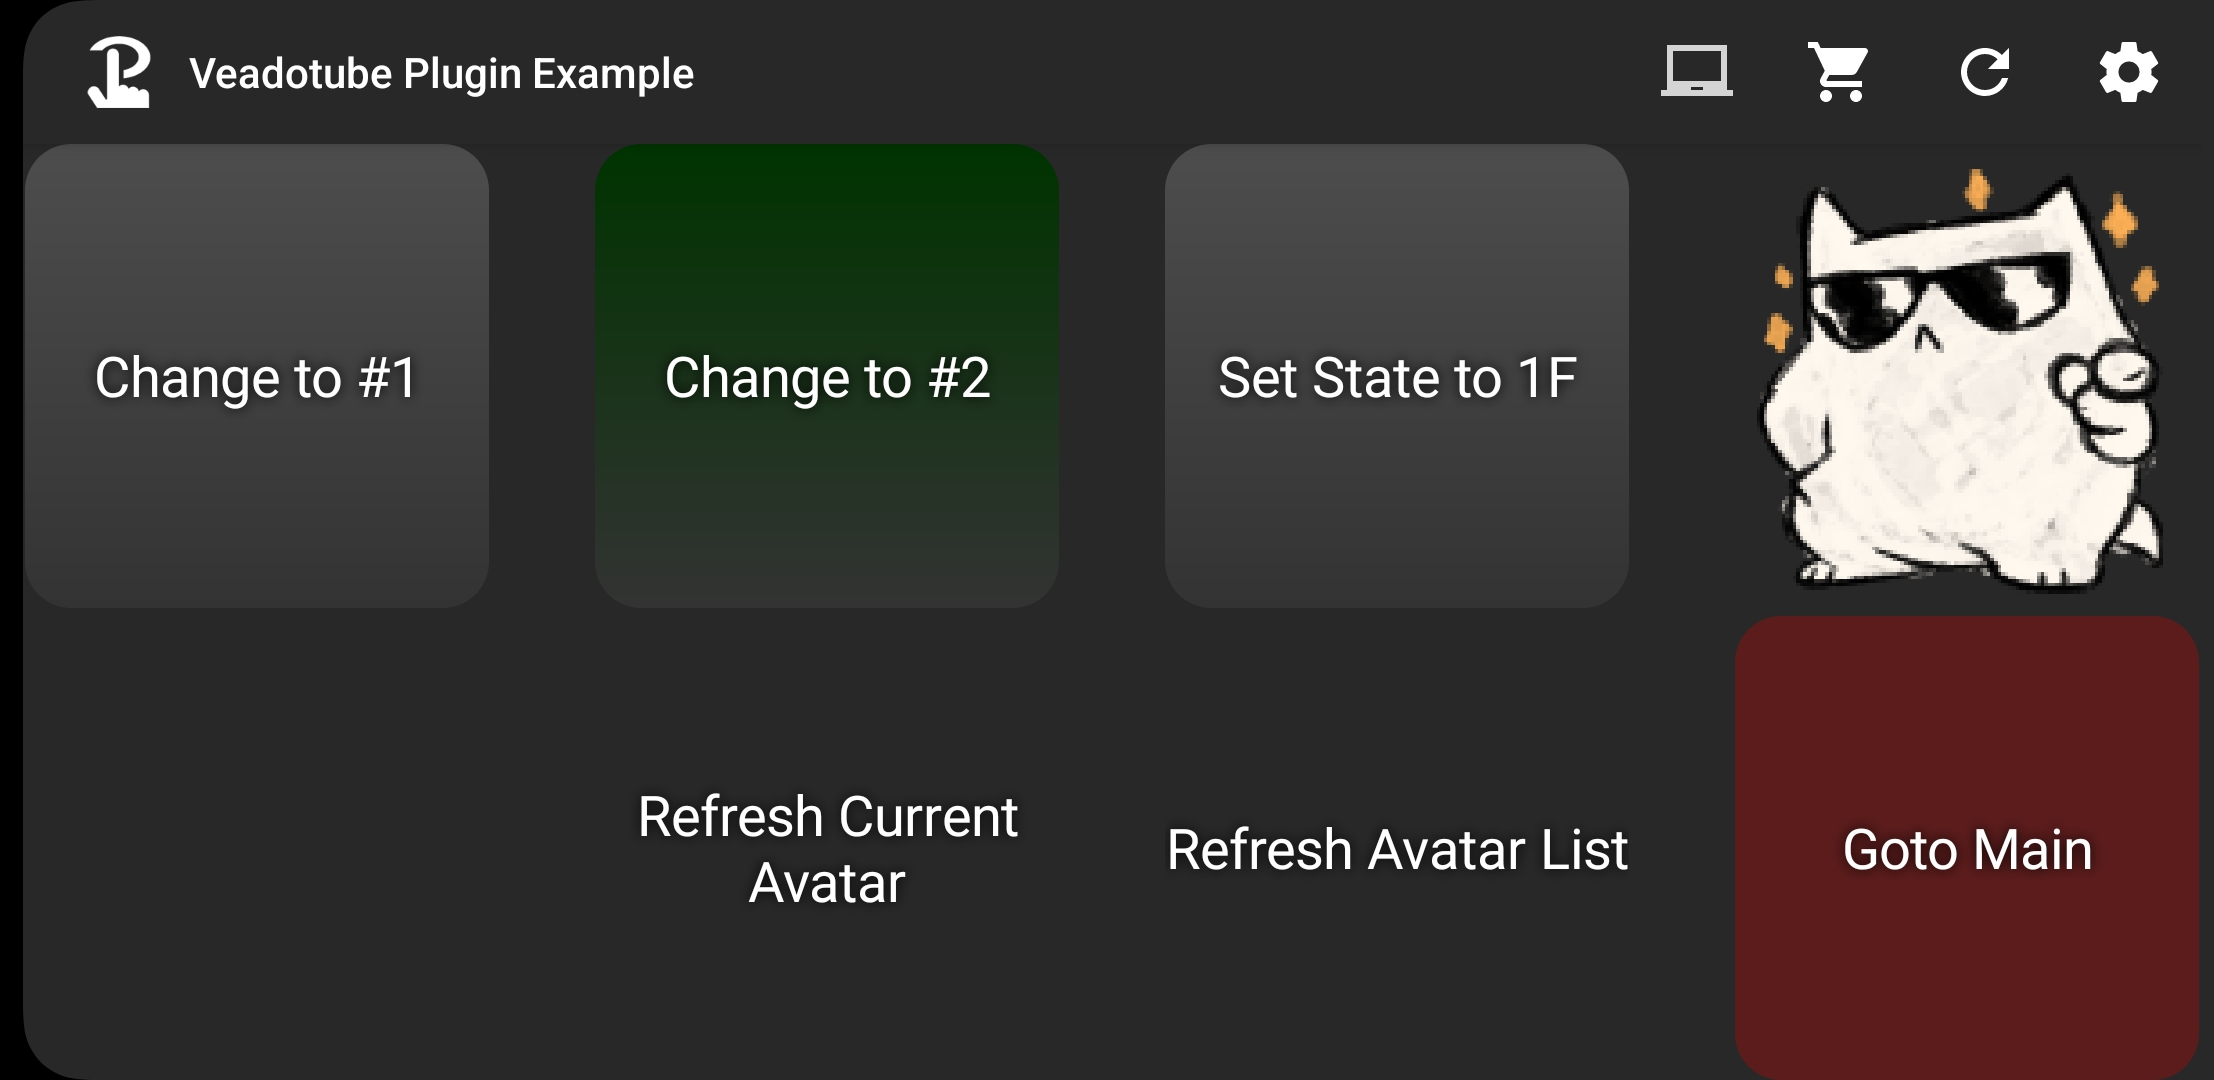
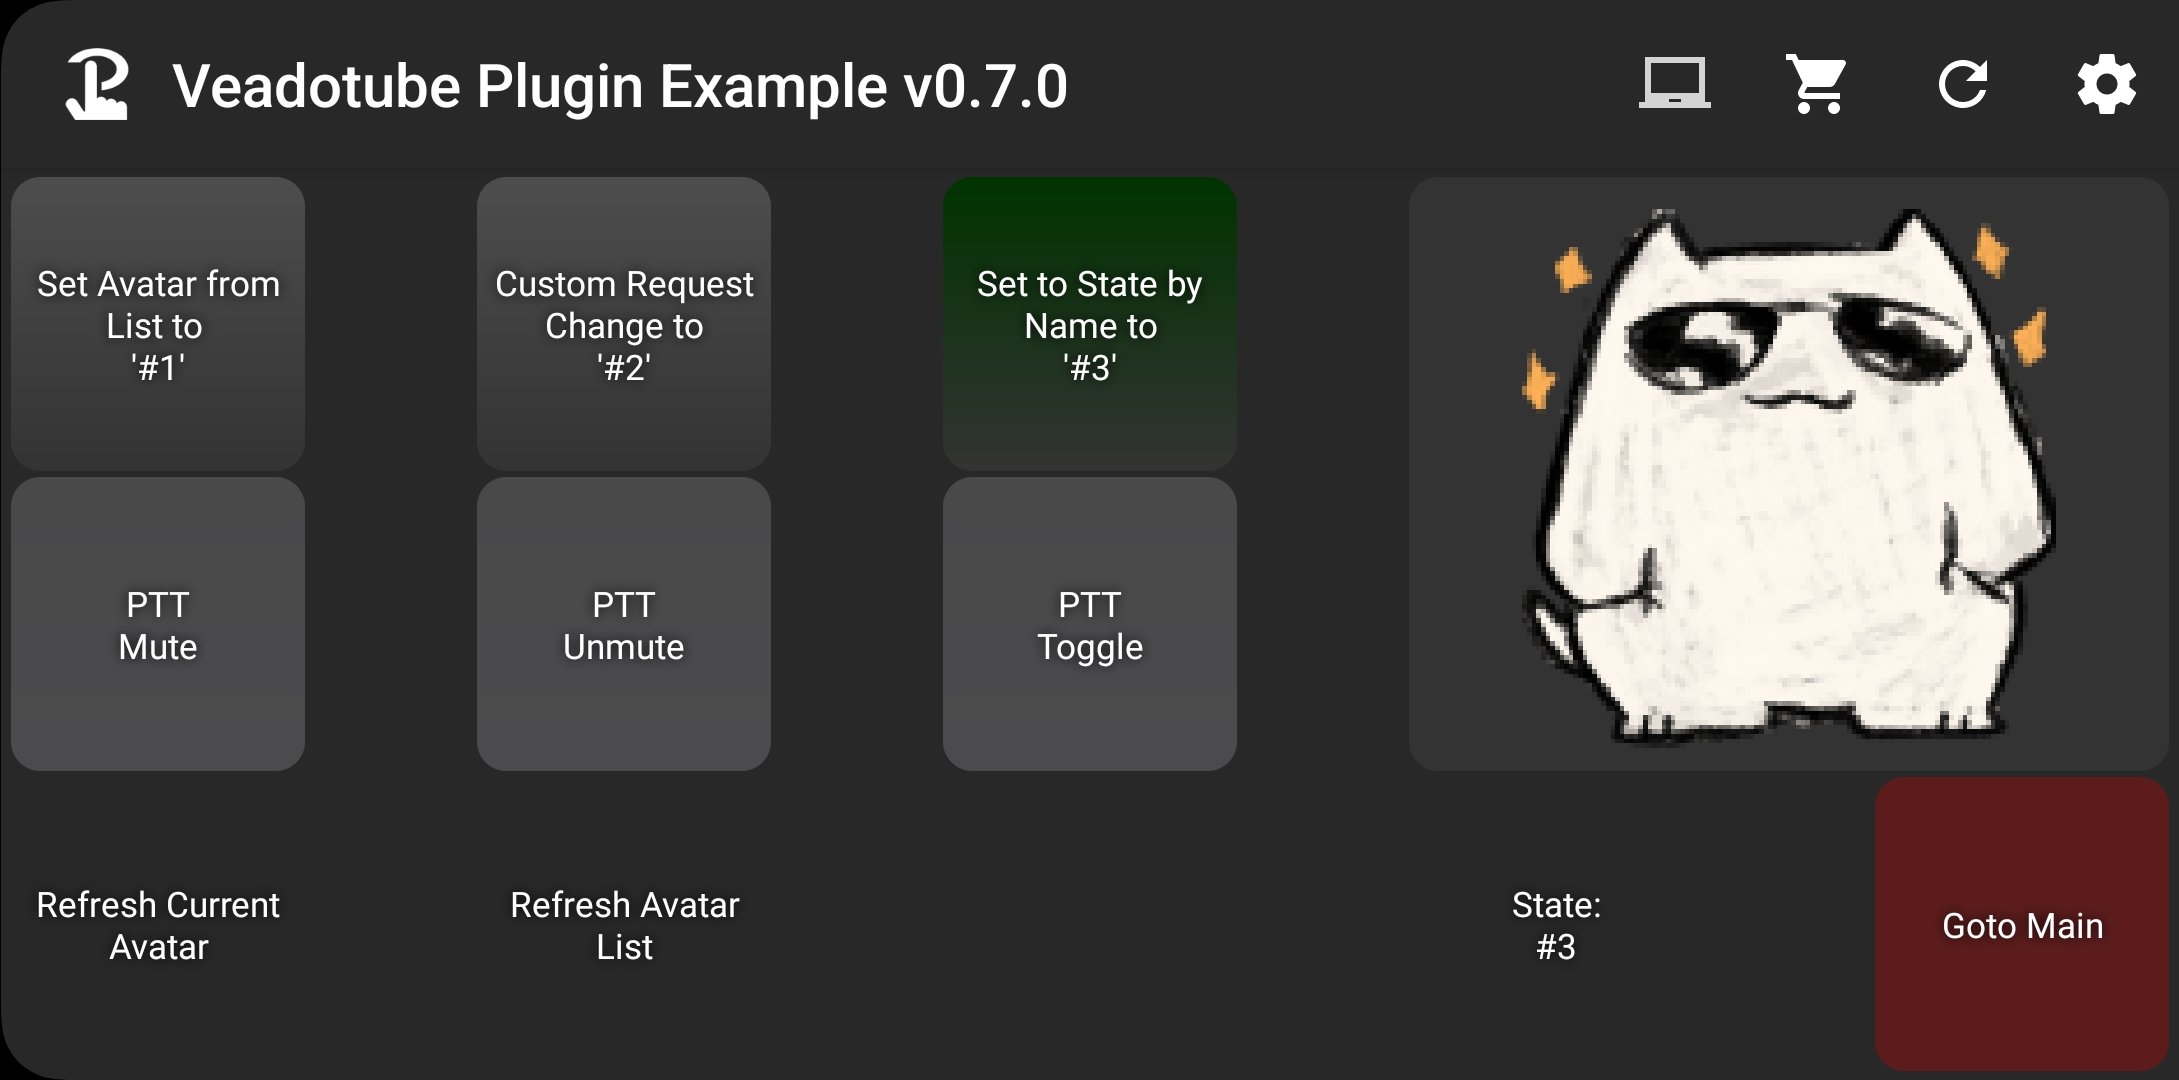
Updated Readme and Added Touch Portal Page Example for v0.7.0
Updated License info

diff --git a/README.md b/README.md
@@ -16,10 +16,10 @@ _This Plugin is free, but you need to buy the Touch Portal Pro upgrade install a
 
 ## Releases
 
-The latest version is 0.6.0 and currently a beta release.
+The latest version is 0.7.0 and currently a beta release.
 
 - Stable enough for general use but hasn't been fully tested.
-- Only Tested with **Veadotube Mini v2.0**
+- Tested with **veadotube mini v2.0a** and **veadotube mini v2.1**
 
 
 ## Getting Help
@@ -31,6 +31,9 @@ The easiest way to get help is to ask in the [Touch Portal Discord](https://disc
 - Touch Portal: https://www.touch-portal.com
 - BleatKan Library: https://github.com/DissonantAU/bleatkan
 - Touch Portal Plugin SDK: https://github.com/ChristopheCVB/TouchPortalPluginSDK
+
+## License
+- This Plugin Licensed under GPL v3, and is Free to use in accordance with any Licenses and Agreements 
 
 
 ---
@@ -45,6 +48,7 @@ The easiest way to get help is to ask in the [Touch Portal Discord](https://disc
   Select **Yes** or **Trust Always** to let it run
   **Yes** will make Touch Portal ask you again each time it starts  
   ![Screenshot of Touch Portal Plugin Warning](readmeAndLicences/readmeImg/plugin-import-2.png)
+
 
 
 ### Plugin Settings
@@ -66,89 +70,64 @@ Only one copy of Veadotube Mini is running, it has the default title.
 Enable has been entered for Request Thumbnail
 
 
+
 ### Setting up Buttons in Touch Portal
 **You can find an example Touch Portal Page you can download and import here**  
 
 The example page and the examples below use one of the default avatars, O Gato by BELLA!  
 You can find it in Veadotube Mini by clicking _Avatar Settings > Load Default Avatar..._  
-![Screenshot of the Example Touch Portal Page on Android](readmeAndLicences/readmeImg/example_button_adv_3.png)
+![Screenshot of the Example Touch Portal Page on Android](readmeAndLicences/readmeImg/example_button_adv_2.png)
+
+
 
 #### Basic Button Setup
 The Plugin Actions can be found under **Veadotube - Primary Instance** 
 
 **Basic Avatar Change Trigger**
-1. Make sure you have the Avatar you want to use open, and add **Set Avatar State** to you button
+1. Make sure you have the Avatar you want to use open, and add **Set Avatar State from List** to your button
 
-2. Click the dropdown arrow to show all the current Avatars  
-![Screenshot of the Touch Portal showing 'Set Avatar State to' and a dropdown list with Avatar States and IDs](readmeAndLicences/readmeImg/example_button_1.png)
+2. Click the dropdown arrow to show all the current Avatars
+![Screenshot of the Touch Portal showing 'Set Avatar State to' and a dropdown list with Avatar States](readmeAndLicences/readmeImg/example_button_1.png)
+![example_button_adv_5.png](readmeAndLicences%2Fexample_button_adv_5.png)
+You will see the name, or number assigned by veadotube if you didn't set one.  
+Changing the name of a state in veadotube will break your Touch Portal buttons - you will need to come back and update the buttons of any you change.  
+- Select the avatar you want this button to set
+- Alternatively you can use **Set Avatar State by Name** if you'd prefer to use a text box or value to set the name  
+You can copy & paste from the state name filled in veadotube into the text box with this option
+![Screenshot of the Touch Portal showing 'Set Avatar to State with Name' and a text box with the name #3](readmeAndLicences/readmeImg/example_button_2.png)
 
-You will see the name (or number assigned by Veadotube if you didn't set one) and the Avatar ID in brackets.  
-This ID doesn't change and the Plugin uses it, so you can safely change avatar state names in Veadotube without your Touch Portal buttons breaking.  
-3. Select the avatar you want this button to set
 4. Set the Button Text, Background, etc.  
-![Closer Screenshot of the Touch Portal showing a button labeled "Change to #1" 'Set Avatar State to' with State #1 ID '3' selected](readmeAndLicences/readmeImg/example_button_2.png)
+![Closer Screenshot of the Touch Portal showing a button labeled "Change to #1" 'Set Avatar State to' with State #1 selected](readmeAndLicences/readmeImg/example_button_3.png)
 
-5. Repeat with other buttons  
-![Closer Screenshot of the Touch Portal showing a button labeled "Change to #2" 'Set Avatar State to' with State #2 ID 'D' selected](readmeAndLicences/readmeImg/example_button_3.png)
+5. Repeat with other buttons
 
-![Screenshot of Veadotube with State #1 Selected, and State #2 highlighted so the State Name is visible](readmeAndLicences/readmeImg/example_button_4.png)
-_2nd Avatar - no name, given Default of #2. The ID is 'D'_
+![Screenshot of Veadotube with State #2 selected and open so the State Name is visible](readmeAndLicences/readmeImg/example_button_4.png)
+_Opening the avatar state in veadotube shows the name box - you can copy this into Touch Portal text boxes_
 
 You can now press the buttons and change the active avatar!  
+Note: Here **When Plug-in state changes** has been used to make the buttons reactive - If you want buttons to change with the state, even when changed directly in veadotube, see under _Advanced Buttons_ below
 
-![Screenshot of the Example Touch Portal Page on Android with 3 Example Change Buttons. State #1 showing as an Icon](readmeAndLicences/readmeImg/example_button_5.png)
+![Screenshot of the Example Touch Portal Page on Android with 3 Example Change Buttons. State #3 showing as an Icon](readmeAndLicences/readmeImg/example_button_adv_4.png)
+_After Pressing Button #3_
+
+![Screenshot of the Example Touch Portal Page on Android with 3 Example Change Buttons. Now State #1 showing as an Icon](readmeAndLicences/readmeImg/example_button_adv_2.png)
 _After Pressing Button #1_
 
-![Screenshot of the Example Touch Portal Page on Android with 3 Example Change Buttons. Now State #2 showing as an Icon](readmeAndLicences/readmeImg/example_button_6.png)
-_After Pressing Button #2_
 
 
-##### Set Avatar State by ID (Text)
-You can also use a text field or Touch Portal Value to set the Avatar
-![Screenshot of the Touch Portal showing 'Set Avatar to State with ID' with 1F entered in the text box, and 'Set Avatar State to' with the dropdown list with Avatar States and IDs open](readmeAndLicences/readmeImg/example_button_7.png)
-_In this example you can see the state by Text set to 1F (#4). The Set State is shown here for comparison. It's also an easy way to find a State's ID_
-
-
-
-
-#### Refresh Buttons
-You can create buttons to Force a refresh as well
-![Screenshot of the Touch Portal showing 'Refresh Avatar State List' and 'Refresh Current Avatar State' Actions under On Pressed Actions](readmeAndLicences/readmeImg/example_button_refresh_1.png)  
-You won't need these normally, but that can be useful if you're changing the order/images/names of Avatar States and want to refresh without restarting either Touch Portal of Veadotube.  
-The Plugin will refresh if it sees a new State ID, but will usually only fetch a list when it first connects
-
-
-#### Current Avatar as an Icon
-If you've enabled _Auto Request Current State Thumbnail_ you can create a 'button' that shows the current Avatar
-
-You can create this by adding:
-1. Event: When Plugin State Changes  
-Choose _Veadotube Plugin > Primary Instance > Current Avatar State - Thumbnail_
-
-![Screenshot of the Touch Portal showing 'When the plugin State' event and the plugin state dropdown open to 'Veadotube Plugin', 'Veadotube Primary Instance' and 'Current Avatar State - Thumbnail' highlighted](readmeAndLicences/readmeImg/example_button_icon_1.png)  
-
-Set the 2nd box to _does not change to_, and leave the 3rd box blank
-![Screenshot of the Touch Portal showing 'When the plugin State' event, the plugin state 'Current Avatar State - Thumbnail' chosen, 'does not change to' chosen and a blank text box](readmeAndLicences/readmeImg/example_button_icon_2.png)
-
-2. Inside the Event, add _Change visuals by Plugin State_ and select _Icon_ and _Current Avatar State - Thumbnail_  
-![Screenshot of the Touch Portal showing 'When the plugin State' event with Change Visuals by plug-in state action. It is set to change the Icon with the value from "Current Avatar State - Thumbnail"](readmeAndLicences/readmeImg/example_button_icon_3.png)
-
-Now the Icon will change when the Avatar does - even if it's changed directly in the app!
-
-#### Advanced Buttons
+#### Reactive Buttons
 You can set up the buttons to react to the Avatar State Changing - this also works if you change it by clicking directly in Veadotube  
 
 Add:
 1. _Event: When Plugin State Changes_  
-  Choose _Veadotube Plugin > Primary Instance > Current Avatar State - ID_  
-![Screenshot of the Touch Portal showing 'When the plugin State' event as Current State Avatar - ID changed to 3 and the Change Button Visuals action](readmeAndLicences/readmeImg/example_button_adv_1.png)
+  Choose _Veadotube Plugin > Primary Instance > Current Avatar State - Name_  
+![Screenshot of the Touch Portal showing 'When the plugin State' event as Current State Avatar - Name changed to #1 and the Change Button Visuals action set to change the background colour to Green and Gray. A Do not Change to #1 Event has the 'Restore Button visuals for' 'Background settings' inside](readmeAndLicences/readmeImg/example_button_adv_1.png)
 
-2. Set the 2nd box to changes to and the 3rd to the Avatar ID (Use the Set Avatar State action to find it if you don't know it already)
+2. Set the 2nd box to 'changes to' and the 3rd to the Avatar Name (you can copy and paste this from veadotube)  
 
 3. Add a _Change Button Visuals_ action inside the event and choose how you want the button to show the Avatar State is active  
 
-4. Copy the _When Plugin State Changes_ event but set the 2nd box to _does not change to_ and add a _Restore button visuals_ action  
-![Screenshot of the Touch Portal showing 'When the plugin State' event as Current State Avatar - ID changed to 3 and the Change Button Visuals action set to change the background colour to Green and Gray. A Do not Change to 3 Event has the 'Restore Button visuals for' 'Background settings' inside](readmeAndLicences/readmeImg/example_button_adv_2.png)
+4. Copy the _When Plugin State Changes_ event but set the 2nd box to _does not change to_ and add a _Restore button visuals_ action
 
 5. Repeat on your other buttons
 
@@ -157,9 +136,27 @@ Now you can see which avatar is active by the button that's highlighted
 ![Screenshot of the Example Touch Portal Page on Android with 3 Example Change Buttons. Change to #1 Button is Green-Gray and State #1 showing as an Icon](readmeAndLicences/readmeImg/example_button_adv_3.png)
 _Avatar State #1 is Active_  
 
-![Screenshot of the Example Touch Portal Page on Android with 3 Example Change Buttons. Change to #2 Button is Green-Gray and State #2 showing as an Icon](readmeAndLicences/readmeImg/example_button_adv_4.png)
-_Avatar State #2 is Active_  
+![Screenshot of the Example Touch Portal Page on Android with 3 Example Change Buttons. Change to #3 Button is Green-Gray and State #3 showing as an Icon](readmeAndLicences/readmeImg/example_button_adv_4.png)
+_Avatar State #3 is Active_  
 
+
+
+#### Current Avatar as an Icon
+If you've enabled _Auto Request Current State Thumbnail_ you can create a 'button' that shows the current Avatar
+
+You can create this by adding:
+1. Event: When Plugin State Changes  
+   Choose _Veadotube Plugin > Primary Instance > Current Avatar State - Thumbnail_
+
+![Screenshot of the Touch Portal showing 'When the plugin State' event and the plugin state dropdown open to 'Veadotube Plugin', 'Veadotube Primary Instance' and 'Current Avatar State - Thumbnail' highlighted](readmeAndLicences/readmeImg/example_button_icon_1.png)
+
+Set the 2nd box to _does not change to_, and leave the 3rd box blank
+![Screenshot of the Touch Portal showing 'When the plugin State' event, the plugin state 'Current Avatar State - Thumbnail' chosen, 'does not change to' chosen and a blank text box](readmeAndLicences/readmeImg/example_button_icon_2.png)
+
+2. Inside the Event, add _Change visuals by Plugin State_ and select _Icon_ and _Current Avatar State - Thumbnail_  
+   ![Screenshot of the Touch Portal showing 'When the plugin State' event with Change Visuals by plug-in state action. It is set to change the Icon with the value from "Current Avatar State - Thumbnail"](readmeAndLicences/readmeImg/example_button_icon_3.png)
+
+Now the Icon will change when the Avatar does - even if it's changed directly in the app!
 
 
 
@@ -169,14 +166,26 @@ You can set a 'button' to show the name of the currently active avatar
 Add:
 1. _Event: When Plugin State Changes_
 
-Choose _Veadotube Plugin > Primary Instance > Current Avatar State - Name_ or _Name & ID_
+Choose _Veadotube Plugin > Primary Instance > Current Avatar State - Name_
+![Screenshot of the Touch Portal showing 'When the plugin State' event as 'Current State Avatar - Name' does not change to blank and the Change Button Visuals action set to change Text. The Text Box is empty](readmeAndLicences/readmeImg/example_button_name_1.png)
 
-![Screenshot of the Touch Portal showing 'When the plugin State' event as 'Current State Avatar - Name & ID' does not change to blank and the Change Button Visuals action set to change Text. The Text Box is empty](readmeAndLicences/readmeImg/example_button_name_1.png)
-
-2. Add a _Change Button Visuals_ action inside the event and set it to use the Name or Name and ID to change the button text
-
-![Screenshot of the Touch Portal showing 'When the plugin State' event as 'Current State Avatar - Name & ID' does not change to blank and the Change Button Visuals action set to change Text. The Variable selector is open to Veadotube Plugin, Primary Instance, 'Current Avatar State - Name & ID'](readmeAndLicences/readmeImg/example_button_name_2.png)
+2. Add a _Change Button Visuals_ action inside the event and set it to use the Name to change the button text
+![Screenshot of the Touch Portal showing 'When the plugin State' event as 'Current State Avatar - Name' does not change to blank and the Change Button Visuals action set to change Text. The Variable selector is open to Veadotube Plugin, Primary Instance, 'Current Avatar State - Name'](readmeAndLicences/readmeImg/example_button_name_2.png)
 _You can add other Text to the change action as well_
 
-The Button should now show the current active Avatar Name and/or ID
+The Button should now show the current active Avatar Name
 
+
+
+#### Custom JSON Requests
+You can send custom JSON Messages to the API, useful if you want to use an API feature that's not supported directly by this plugin
+![Screenshot of the Touch Portal showing 'Send Custom JSON Request' with 'nodes' in the channel text box and a JSON Message String to set the avatar state to '#2'](readmeAndLicences/readmeImg/example_button_5.png)
+_In this example you can see a Custom JSON Request to set the avatar state to '#2' to be sent to the 'nodes' channel_
+
+
+
+#### Refresh Buttons
+You can create buttons to Force a refresh as well
+![Screenshot of the Touch Portal showing 'Refresh Avatar State List' and 'Refresh Current Avatar State' Actions under On Pressed Actions](readmeAndLicences/readmeImg/example_button_refresh_1.png)  
+You won't need these normally, but it can be useful if you're running veadotube mini 2.0a and changing the order/images/names of Avatar States and want to refresh without restarting either Touch Portal of Veadotube.  
+From mini 2.1 the Plugin will receive an update if there's a change to any States.
